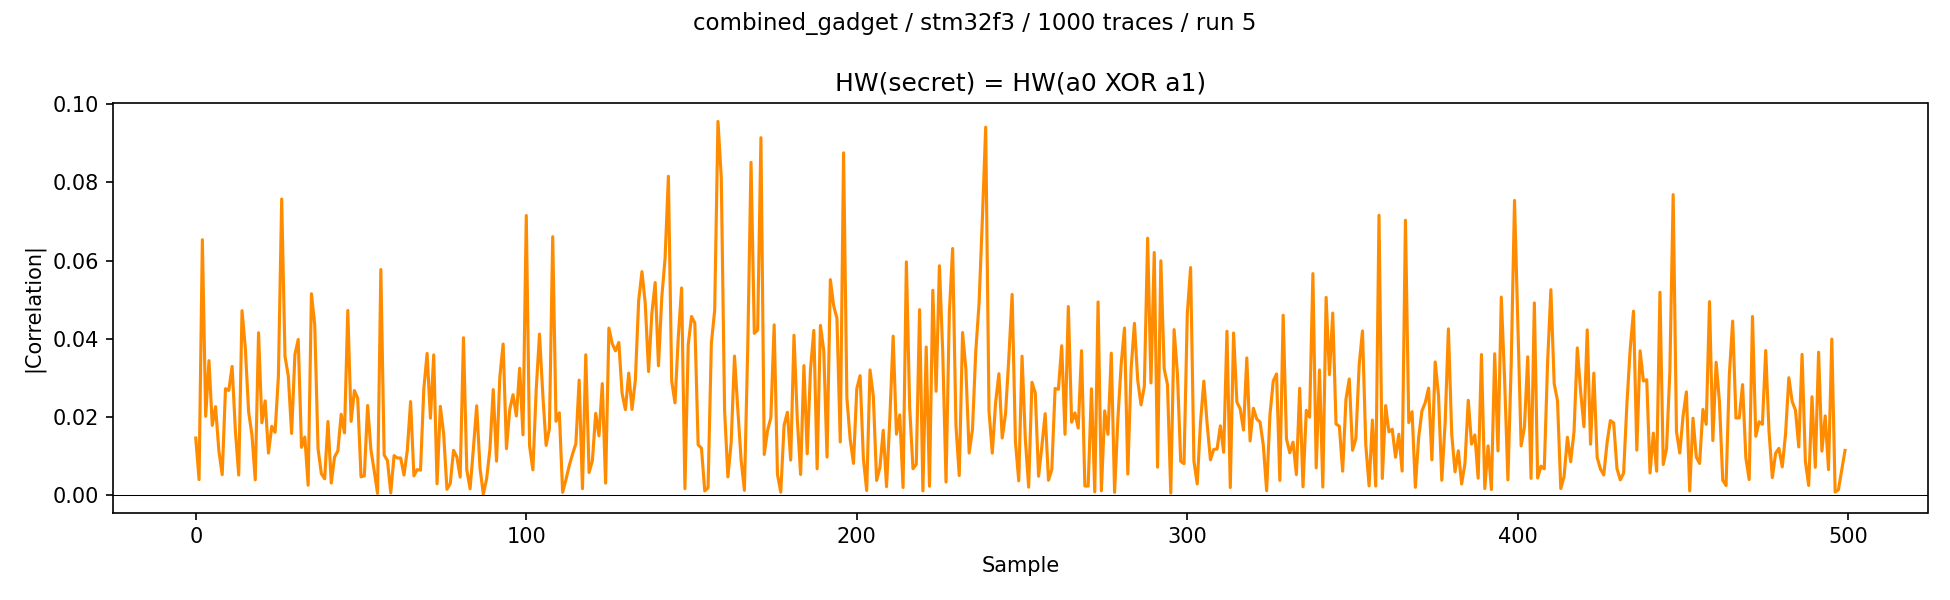
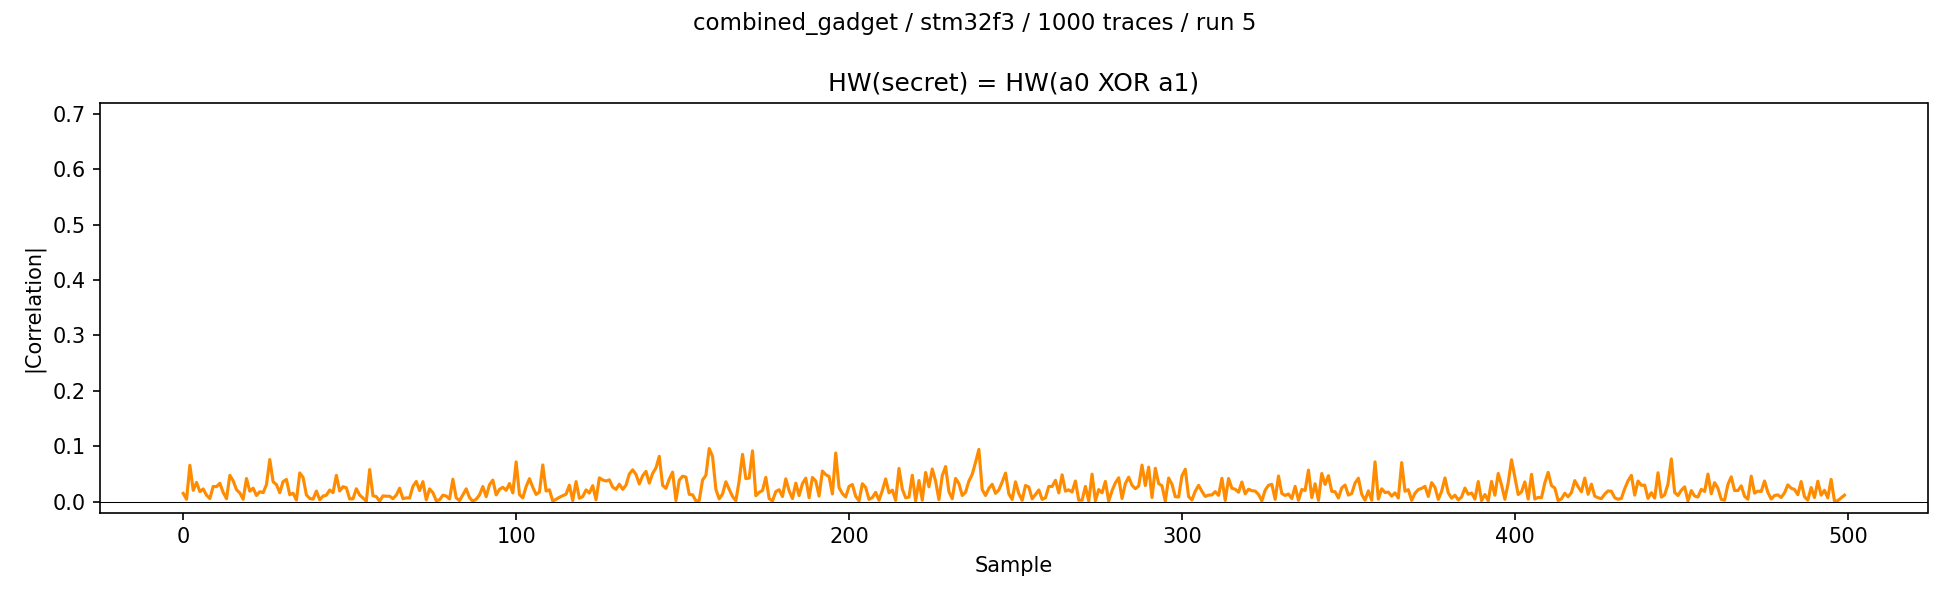
idk where this went

diff --git a/chipWhisperer/scripts/run_full_experiment.py b/chipWhisperer/scripts/run_full_experiment.py
@@ -119,6 +119,7 @@ def plot(traces, shares, index):
     ax.set_ylabel("|Correlation|")
     ax.set_title("HW(secret) = HW(a0 XOR a1)")
     ax.set_xlabel("Sample")
+    ax.set_ylim(-0.02, 0.72)
     tag = f" / run {index}" if index is not None else ""
     fig.suptitle(f"combined_gadget / {CHIP} / {num_traces} traces{tag}", fontsize=11)
     plt.tight_layout()
@@ -133,5 +134,8 @@ def plot(traces, shares, index):
 
 
 if __name__ == "__main__":
-    traces, shares = capture(INDEX)
-    plot(traces, shares, INDEX)
+    #traces, shares = capture(INDEX)
+    traces = np.load("data/combined_gadget_traces_5.npy")
+    shares = np.load("data/combined_gadget_shares_5.npy")
+
+    plot(traces, shares, 5)